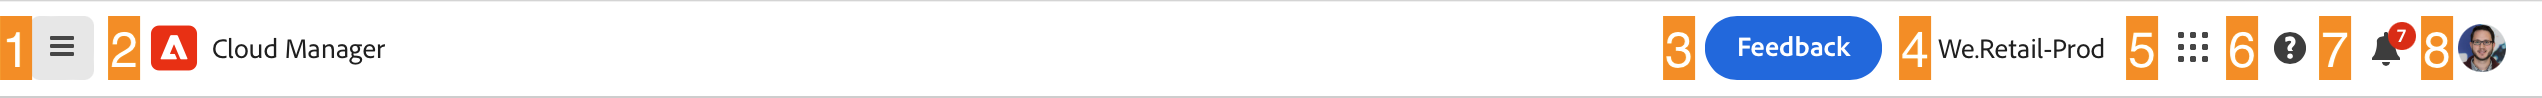
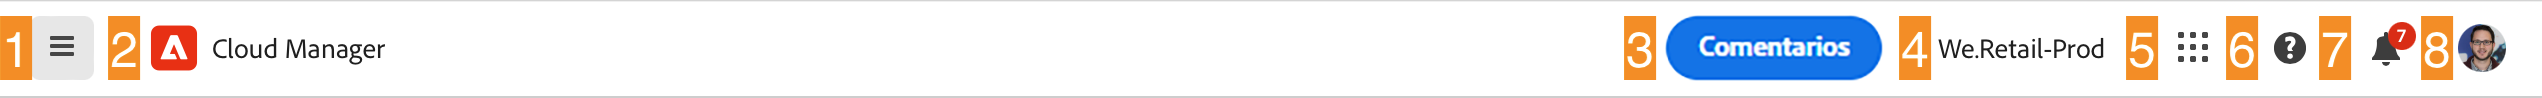
Updated by task 'AUTO_HANDOFF_1721897573765'  Changes for core/source commit https://git.corp.adobe.com/AdobeDocs/experience-manager-cloud-manager.en/commit/8f08c36aaedc05e1a9b75daf674b326cdaec6c25

Changed region(s): [[0.6216, 0.1531, 0.7459, 0.8265]]

diff --git a/help/getting-started/navigation.md b/help/getting-started/navigation.md
@@ -3,9 +3,9 @@ title: Navegación por la IU de Cloud Manager
 description: Descubra cómo está organizada la IU de Cloud Manager y cómo navegar para administrar sus programas y entornos.
 exl-id: 9c1545ce-1c6d-417f-a6f4-fe53caef3433
 source-git-commit: d4d9a9f38c5a969f276140dca98731c670547a3d
-workflow-type: tm+mt
+workflow-type: ht
 source-wordcount: '1439'
-ht-degree: 80%
+ht-degree: 100%
 
 ---
 
@@ -28,13 +28,13 @@ Al iniciar sesión en Cloud Manager en [my.cloudmanager.adobe.com](https://my.cl
 La consola Mis programas proporciona información general de todos los programas a los que tiene acceso en la organización seleccionada. Se compone de partes.
 
 1. [Barras de herramientas](#toolbars-my-programs-toolbars) para la selección de organizaciones, alertas y configuración de la cuenta.
-1. Fichas que permiten alternar la vista actual de los programas.
-   * Vista **Inicio** (predeterminada) que selecciona la vista **Mis programas** con una descripción general de todos los programas
-   * **Licencia** que accede al Tablero de licencias. El panel de licencias solo se aplica a programas de AEM as a Cloud Service, no a programas de AMS.
+1. Pestañas que permiten alternar la vista actual de los programas.
+   * Vista **Inicio** (predeterminada) que selecciona la vista **Mis programas** con información general de todos los programas
+   * **Licencia** que accede al Tablero de licencias. El tablero de licencias solo se aplica a programas de AEM as a Cloud Service, no a programas de AMS.
       * Para determinar el tipo de servicio que tiene su programa (AMS o AEMaaCS), consulte la [sección Tarjetas de programa](#program-cards) de este documento.
    * Tenga en cuenta que las pestañas se cierran de forma predeterminada y se pueden mostrar mediante el menú de hamburguesa del [encabezado de Cloud Manager.](#cloud-manager-header)
-1. [Estadísticas y llamadas a la acción](#cta-statistics) para obtener una descripción general de su actividad reciente
-1. [**Mis programas** sección](#my-programs-section) con una descripción general de todos sus programas
+1. [Llamadas a la acción y Estadísticas](#cta-statistics) para obtener información general de su actividad reciente
+1. [**Sección Mis programas**](#my-programs-section) con información general de todos sus programas
 1. [Vínculos rápidos](#quick-links) para acceder fácilmente a los recursos relacionados
 
 >[!TIP]
@@ -51,8 +51,8 @@ El primero es el encabezado de Cloud Manager, que es persistente mientras navega
 
 ![El encabezado de Experience Cloud](assets/experience-cloud-header.png)
 
-1. El menú de hamburguesa que da acceso a las pestañas que pueden llevarte a partes específicas de un programa individual o cambiar entre el Tablero de licencias y la consola **[Mis programas](#my-programs-console)** según el contexto.
-   * El panel de licencias solo se aplica a programas de AEM as a Cloud Service, no a programas de AMS.
+1. El menú de hamburguesa que da acceso a las pestañas que pueden llevarle a partes específicas de un programa individual o cambiar entre el Tablero de licencias y la consola **[Mis programas](#my-programs-console)** según el contexto.
+   * El tablero de licencias solo se aplica a programas de AEM as a Cloud Service, no a programas de AMS.
    * Para determinar el tipo de servicio que tiene su programa (AMS o AEMaaCS), consulte la [sección Tarjetas de programa](#program-cards) de este documento.
 1. El botón Cloud Manager le devolverá a la consola Mis programas de Cloud Manager independientemente de dónde se encuentre en Cloud Manager.
 1. Toque o haga clic en el botón Comentarios para proporcionar comentarios a Adobe sobre Cloud Manager.
@@ -73,9 +73,9 @@ La barra de herramientas del programa proporciona vínculos para cambiar entre l
    * Tenga en cuenta que el recorrido de incorporación está diseñado para AEM as a Cloud Service y no para Cloud Service de AMS, aunque muchos conceptos son los mismos.
 1. El botón de acción ofrece acciones adecuadas al contexto, como crear un nuevo programa.
 
-### Llamadas a la acción y estadísticas {#cta-statistics}
+### Llamadas a la acción y Estadísticas {#cta-statistics}
 
-La sección de estadísticas y llamada a la acción proporciona datos acumulados para su organización. Por ejemplo, si ha configurado correctamente sus programas, pueden mostrarse estadísticas de las actividades de los últimos 90 días, incluidas las siguientes:
+La sección de llamadas a la acción y estadísticas proporciona datos acumulados para su organización. Por ejemplo, si ha configurado correctamente sus programas, pueden mostrarse las estadísticas de sus actividades de los últimos 90 días, entre ellas:
 
 * Número de [implementaciones](/help/using/code-deployment.md)
 * Número de [problemas de calidad del código](/help/using/code-quality-testing.md) identificados
@@ -113,7 +113,7 @@ Cada programa está representado por una tarjeta (o fila en una tabla), que prop
 * Nombre del programa
 * Tipo de servicio:
    * **Experience Manager** para programas de AMS
-   * **Nube de Experience Manager** para [programas de AEM as a Cloud Service](https://experienceleague.adobe.com/es/docs/experience-manager-cloud-service/content/implementing/home)
+   * **Experience Manager Cloud** para [programas de AEM as a Cloud Service](https://experienceleague.adobe.com/es/docs/experience-manager-cloud-service/content/implementing/home)
 * Estado
 * Soluciones configuradas
 * Fecha de creación
@@ -137,7 +137,7 @@ La sección de vínculos rápidos le permite acceder a los recursos relacionados
 
 ## Ventana Información del programa {#program-overview}
 
-Una vez que seleccione un programa en la consola [**Mis programas**,](#my-programs-console) se le redirigirá a la Información general del programa.
+Una vez que seleccione un programa en la consola [**Mis programas**,](#my-programs-console) se le redirige a la Información general del programa.
 
 ![Información general del programa](assets/program-overview.png)
 
